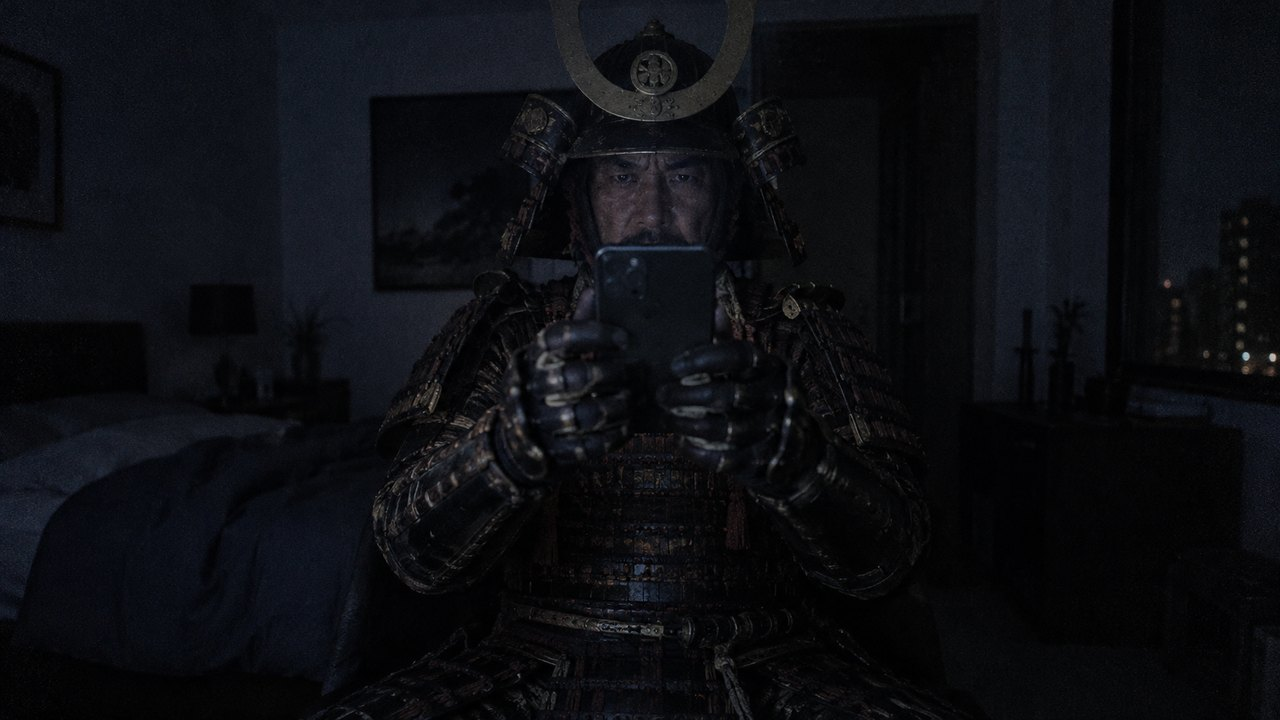
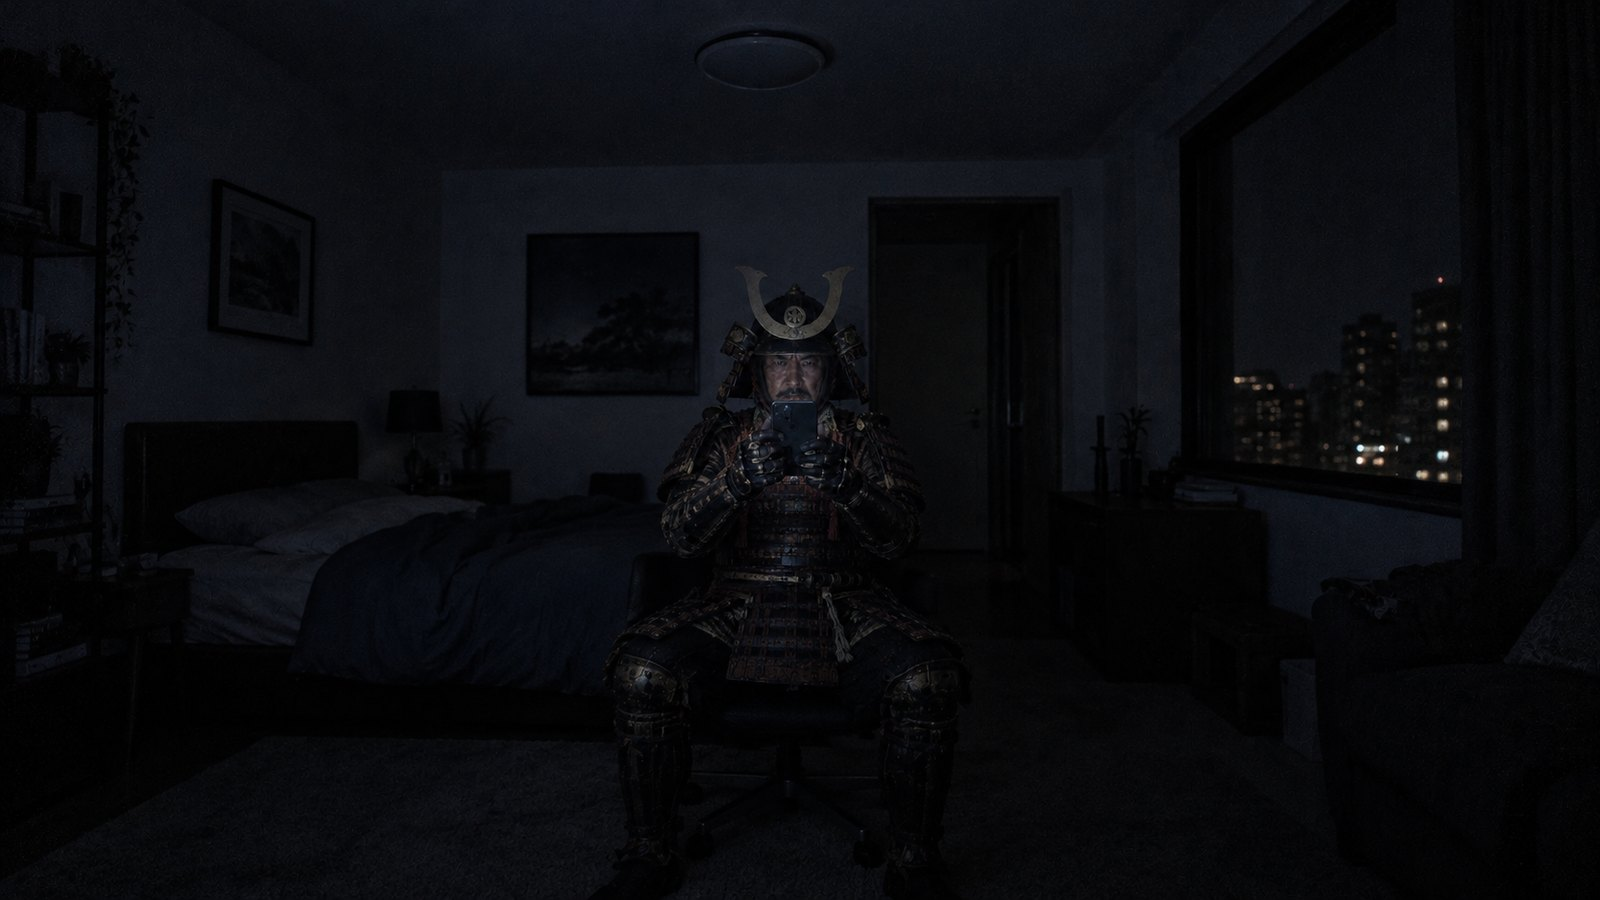
写り込みを平面の鏡として計算し直し、絵を引きの構図に差し替え
- カメラからの線を画面で跳ね返し、撮影者の後ろの「人と部屋の絵の板」に当てて読む
  （斜めから撮ると写り込みが流れ、大きく振ると画面の外へ外れる）
- 写り込み8枚を引きの構図（部屋・天井の照明まで）に描き直し、スマホが絵の位置で合うように
- 初期値をほぼ正面に、おまかせの角度の幅も狭く

diff --git a/js/main.js b/js/main.js
@@ -5,6 +5,8 @@ import { defaults, buildPanel, isContentKey, TABS } from './controls.js';
 import { detectLang, makeT } from './i18n.js';
 
 const PRESETS = ['ojisan', 'bakemono', 'bijo', 'anime', 'cat', 'yurei', 'samurai', 'alien'];
+// プリセットの絵でスマホが写っている位置（左下 0,0）。カメラの真後ろに来るよう合わせる
+const PHONE_POS = [0.5, 0.4];
 const LONG_SIDE = 2048;
 
 const $ = (sel) => document.querySelector(sel);
@@ -173,14 +175,11 @@ function render() {
   const matte = s.glass === 'matte';
   const reflAspect = renderer.reflAspect;
   // 写り込んだ人は「カメラ→画面→人」で 2 倍の距離にいる
-  const halfH = (cam.F * (s.reflScale * 2.6)) / (2 * cam.D);
-  const reflHalf = [halfH * reflAspect, halfH];
-  // 物理どおりなら「鏡に自分が写る点」にスマホが来るが、それだと角度を付けた時に顔が画面の外へ逃げる。
-  // 笑いどころは顔なので、追従を半分に弱め、絵を少し下げて顔を真ん中寄りに置く。
-  const reflCenter = [
-    cam.mirror[0] * 0.5 + s.reflX * 0.9,
-    cam.mirror[1] * 0.5 + s.reflY * 0.9 - halfH * 0.22,
-  ];
+  // 写り込みの絵の板：撮影者はカメラの位置にいて、絵の真ん中（スマホ）がカメラの真後ろに来る。
+  // 大きさは世界の単位（画面の高さ = 1）で、板は撮影者の顔あたりの奥行きに置く
+  const reflW = s.reflScale * 8;
+  const reflSize = [reflW, reflW / reflAspect];
+  const reflAnchor = [cam.cam[0] + s.reflX * 3, cam.cam[1] + s.reflY * 3];
 
   const frameIdx = { frameNone: 0, laptop: 1, monitor: 2 }[s.frame];
   const bz = BEZEL[s.bezel];
@@ -211,8 +210,10 @@ function render() {
     uWallScale: s.wallScale,
     // ぼけの円は「画面との奥行きの差 ÷ 画面までの距離」に比例する
     uWallBlurW: (s.wallBlur * 0.08 * s.wallDist) / cam.D,
-    uReflCenter: reflCenter,
-    uReflHalf: reflHalf,
+    uReflAnchor: reflAnchor,
+    uReflSize: reflSize,
+    uReflDepth: 1.5,
+    uReflPhone: s.refl === 'upload' ? [0.5, 0.5] : PHONE_POS,
     uReflFlip: s.reflFlip ? -1 : 1,
     uReflStr: matte ? s.reflStr * 0.55 : s.reflStr,
     uReflBlur: matte ? s.reflBlur + 2.5 : s.reflBlur,
@@ -336,16 +337,16 @@ $('#randomBtn').addEventListener('click', () => {
     refl: pick(PRESETS),
     reflStr: rnd(0.5, 1.0),
     reflBlur: rnd(0.8, 2.6),
-    reflScale: rnd(0.5, 0.8),
+    reflScale: rnd(0.8, 1.3),
     reflX: rnd(-0.15, 0.15),
     reflY: rnd(-0.15, 0.1),
     glass: Math.random() < 0.8 ? 'glossy' : 'matte',
     glare: rnd(0, 0.35),
     glareX: rnd(-1, 1),
     glareY: rnd(0.2, 0.9),
-    yaw: rnd(-22, 22),
-    pitch: rnd(-12, 12),
-    roll: rnd(-6, 6),
+    yaw: rnd(-12, 12),
+    pitch: rnd(-8, 8),
+    roll: rnd(-4, 4),
     zoom: rnd(0.95, 1.6),
     shiftX: rnd(-0.15, 0.15),
     shiftY: rnd(-0.12, 0.12),

diff --git a/js/shaders.js b/js/shaders.js
@@ -54,8 +54,10 @@ uniform bool uHasWallTex;
 uniform float uWallTexAspect;
 
 // 写り込み
-uniform vec2 uReflCenter;
-uniform vec2 uReflHalf;
+uniform vec2 uReflAnchor;     // 写り込みの絵の「スマホ」が来る位置（世界座標。撮影者はカメラの所にいる）
+uniform vec2 uReflSize;       // 絵の板の幅・高さ（世界の単位）
+uniform float uReflDepth;     // 絵の板がカメラよりどれだけ後ろにあるか
+uniform vec2 uReflPhone;      // 絵の中でスマホがある位置（左下 0,0）
 uniform float uReflFlip;
 uniform float uReflStr;
 uniform float uReflBlur;
@@ -247,9 +249,14 @@ void main() {
     float fr = 0.04 + 0.96 * pow(1.0 - ct, 5.0);
     float k = uReflStr * (0.85 + 3.0 * fr);
     if (uHasRefl) {
-      vec2 rq = (qd - uReflCenter) / uReflHalf;
-      rq.x *= uReflFlip;
-      vec2 ruv = rq * 0.5 + 0.5;
+      // 画面は平らな鏡。カメラからの線を画面で跳ね返し、撮影者の後ろにある「人と部屋の絵の板」に当てる。
+      // 絵はモニター側から部屋を見た構図なので、絵の右 = 世界の −x
+      vec3 dir = normalize(P - uCam);
+      vec3 rd = vec3(dir.xy, -dir.z);
+      float tt = (uCam.z + uReflDepth) / max(rd.z, 1e-4);
+      vec2 hit = P.xy + rd.xy * tt;
+      vec2 rel = (hit - uReflAnchor) / uReflSize;
+      vec2 ruv = vec2(uReflPhone.x - rel.x * uReflFlip, uReflPhone.y + rel.y);
       vec2 e = smoothstep(vec2(0.0), vec2(0.06), ruv) * smoothstep(vec2(0.0), vec2(0.06), 1.0 - ruv);
       vec3 rc = texture(uRefl, clamp(ruv, 0.0, 1.0), uReflBlur).rgb * e.x * e.y;
       col += rc * k * glass;

diff --git a/js/controls.js b/js/controls.js
@@ -7,7 +7,7 @@ export const TABS = [
       { type: 'reflPicker' },
       { key: 'reflStr', min: 0, max: 1.5, step: 0.01, def: 0.42 },
       { key: 'reflBlur', min: 0, max: 7, step: 0.1, def: 2.0 },
-      { key: 'reflScale', min: 0.3, max: 2.5, step: 0.01, def: 0.62 },
+      { key: 'reflScale', min: 0.4, max: 2.5, step: 0.01, def: 1 },
       { key: 'reflX', min: -1, max: 1, step: 0.01, def: 0 },
       { key: 'reflY', min: -1, max: 1, step: 0.01, def: 0 },
       { key: 'reflFlip', type: 'toggle', def: false },
@@ -21,9 +21,9 @@ export const TABS = [
     id: 'angle',
     items: [
       { key: 'photoAspect', type: 'select', options: ['4:3', '16:9', '1:1', '3:4', '9:16'], raw: true, def: '4:3' },
-      { key: 'yaw', min: -40, max: 40, step: 0.5, def: 9, unit: '°' },
-      { key: 'pitch', min: -35, max: 35, step: 0.5, def: 5, unit: '°' },
-      { key: 'roll', min: -20, max: 20, step: 0.1, def: -2.5, unit: '°' },
+      { key: 'yaw', min: -40, max: 40, step: 0.5, def: 3, unit: '°' },
+      { key: 'pitch', min: -35, max: 35, step: 0.5, def: 2, unit: '°' },
+      { key: 'roll', min: -20, max: 20, step: 0.1, def: -1.5, unit: '°' },
       { key: 'zoom', min: 0.6, max: 2.6, step: 0.01, def: 1.2 },
       { key: 'shiftX', min: -1, max: 1, step: 0.01, def: 0 },
       { key: 'shiftY', min: -1, max: 1, step: 0.01, def: 0 },
